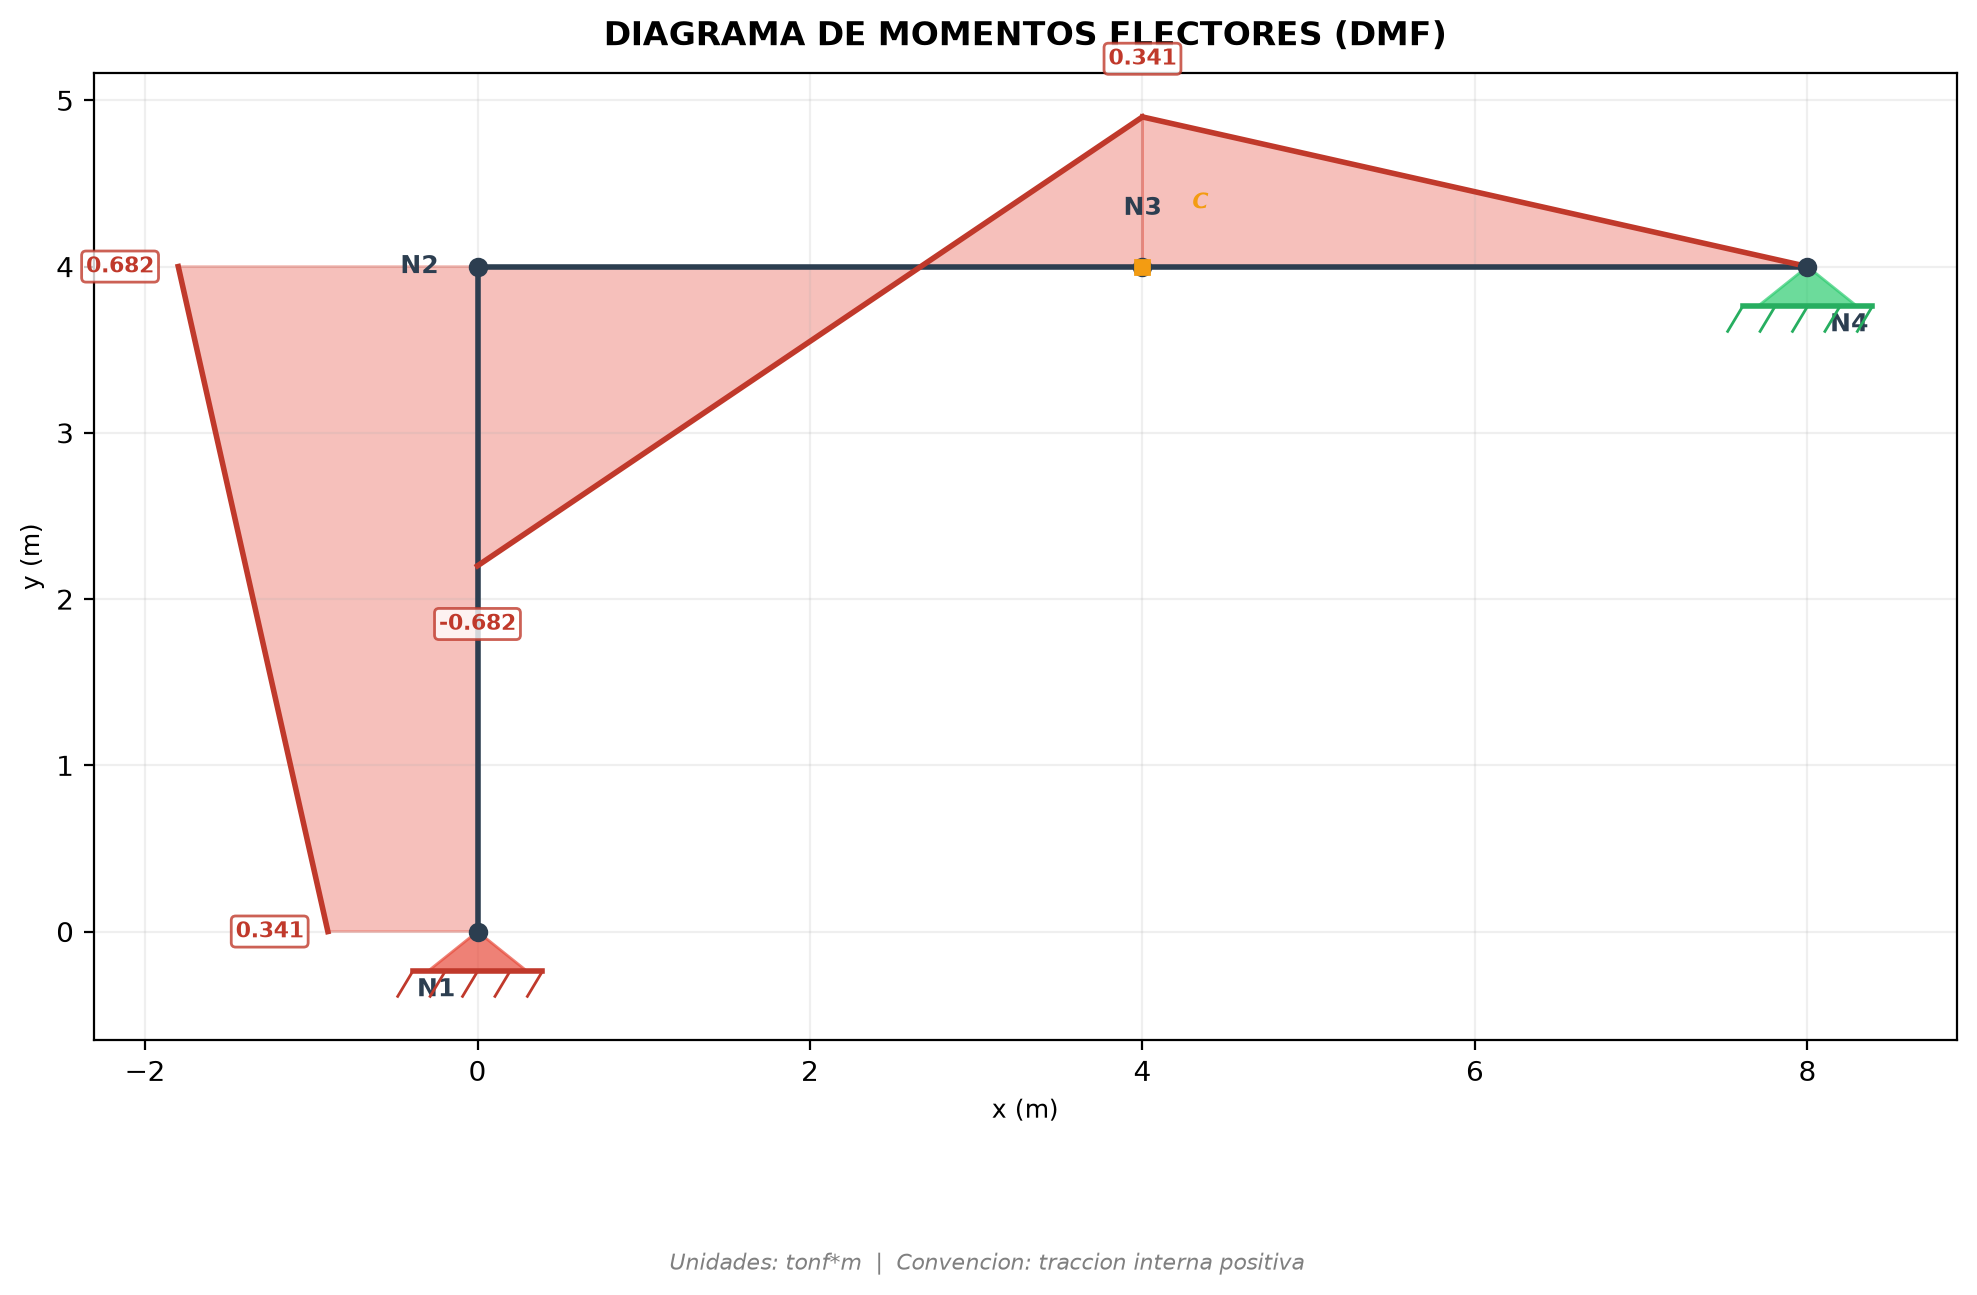
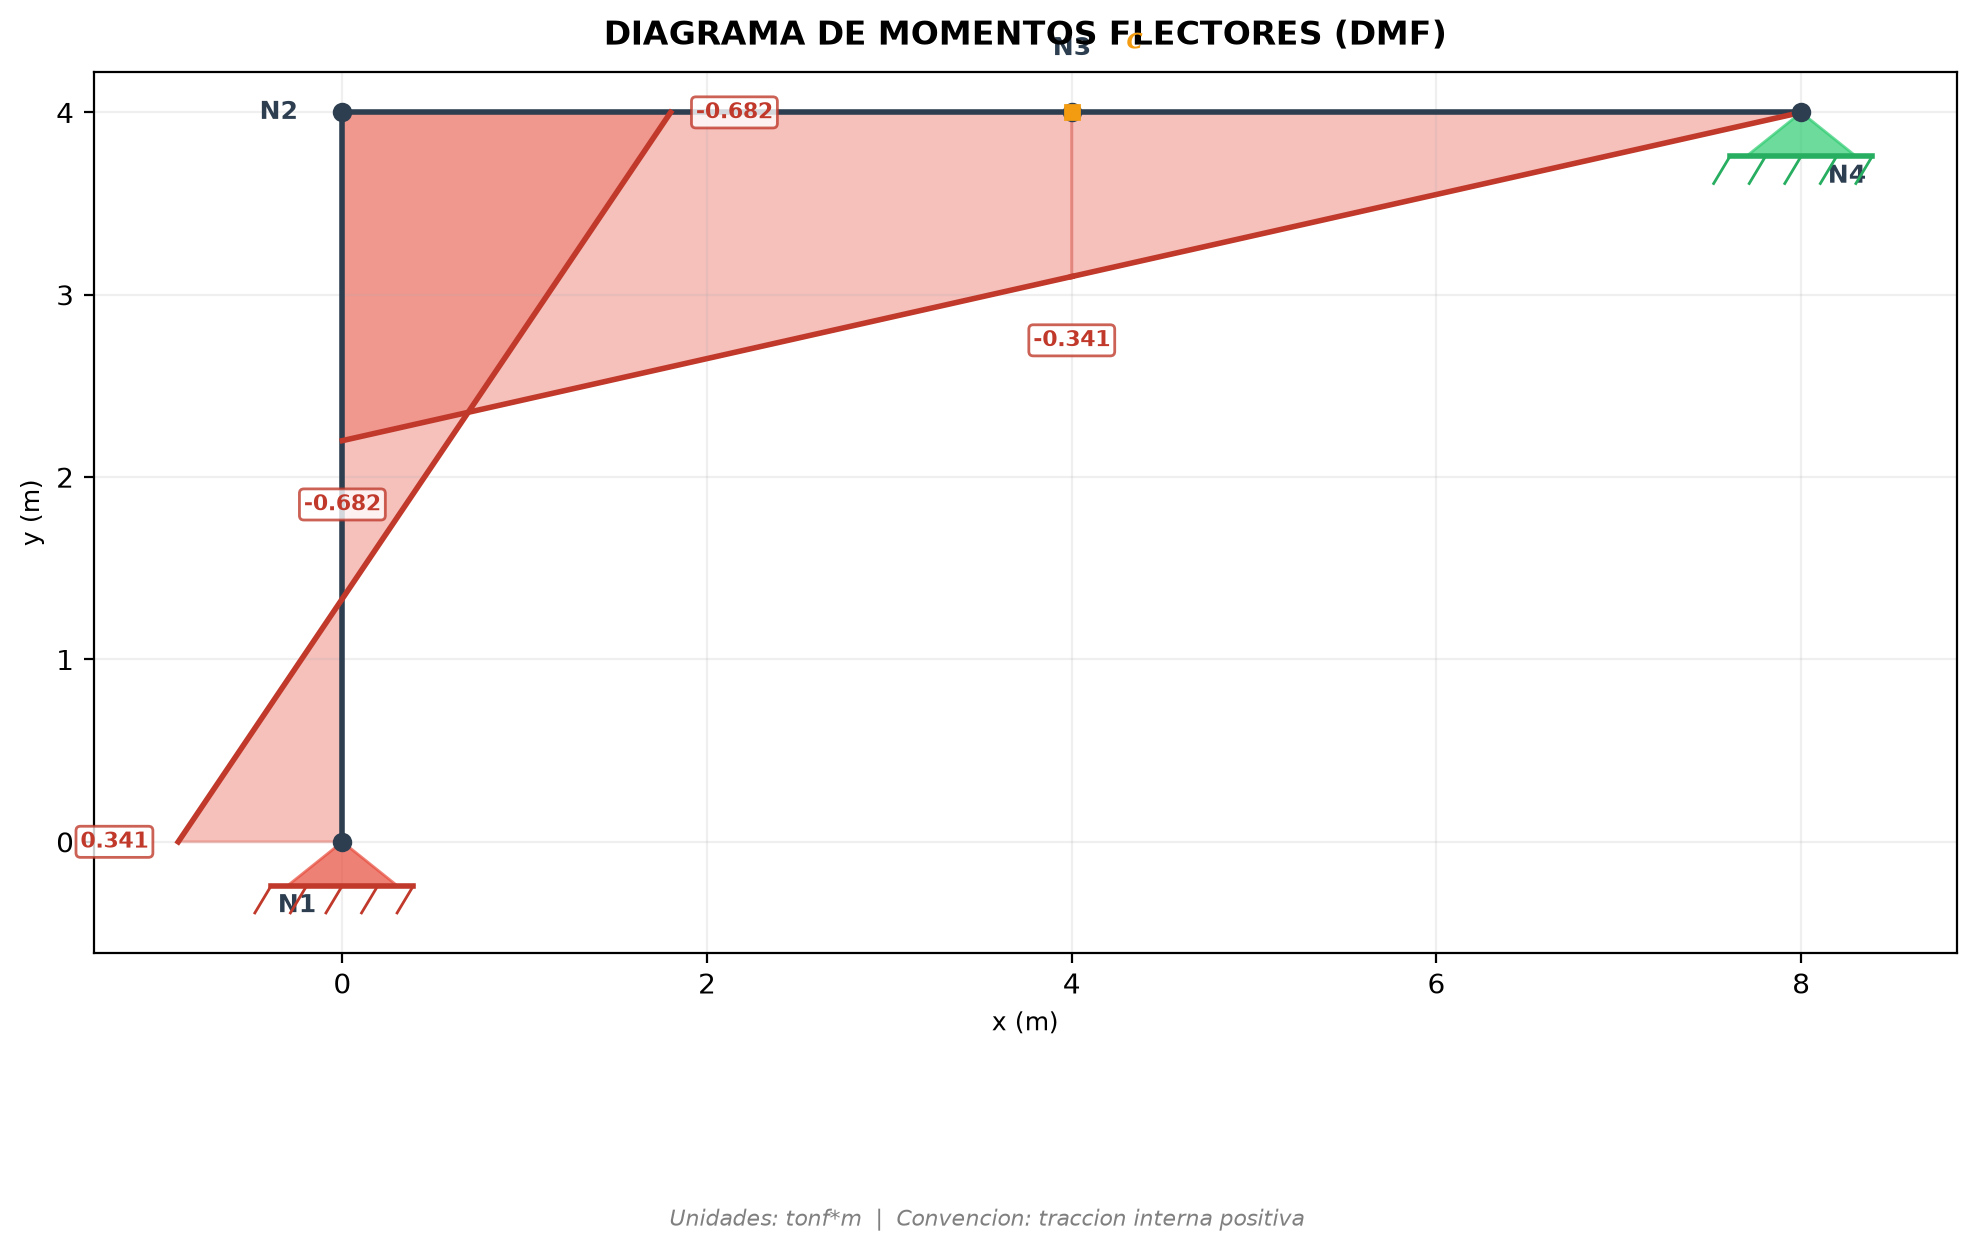
fix: convencion de signos M_I negado, M_J sin negar

diff --git a/marco_2d_asentamientos.py b/marco_2d_asentamientos.py
@@ -113,7 +113,7 @@ print(f"  Sum Fy = {node1_ry + node4_ry:12.6f} tonf (debe ser 0)")
 print("\n--- MOMENTOS FLECTORES ---")
 for ele_tag in range(1, 4):
     forces = ops.eleForce(ele_tag)
-    print(f"Elemento {ele_tag}: M_I = {-forces[2]:12.6f} tonf*m | M_J = {-forces[5]:12.6f} tonf*m")
+    print(f"Elemento {ele_tag}: M_I = {-forces[2]:12.6f} tonf*m | M_J = {forces[5]:12.6f} tonf*m")
 
 # --- 9.3 Desplazamientos ---
 print("\n--- DESPLAZAMIENTOS ---")

diff --git a/diagramas_esfuerzos.py b/diagramas_esfuerzos.py
@@ -73,7 +73,7 @@ for tag in [1, 2, 3]:
     f = ops.eleForce(tag)
     f_elem[tag] = {
         'Fx_I': f[0], 'Fy_I': f[1], 'Mz_I': -f[2],
-        'Fx_J': f[3], 'Fy_J': f[4], 'Mz_J': -f[5],
+        'Fx_J': f[3], 'Fy_J': f[4], 'Mz_J': f[5],
     }
 
 col_AB = {
